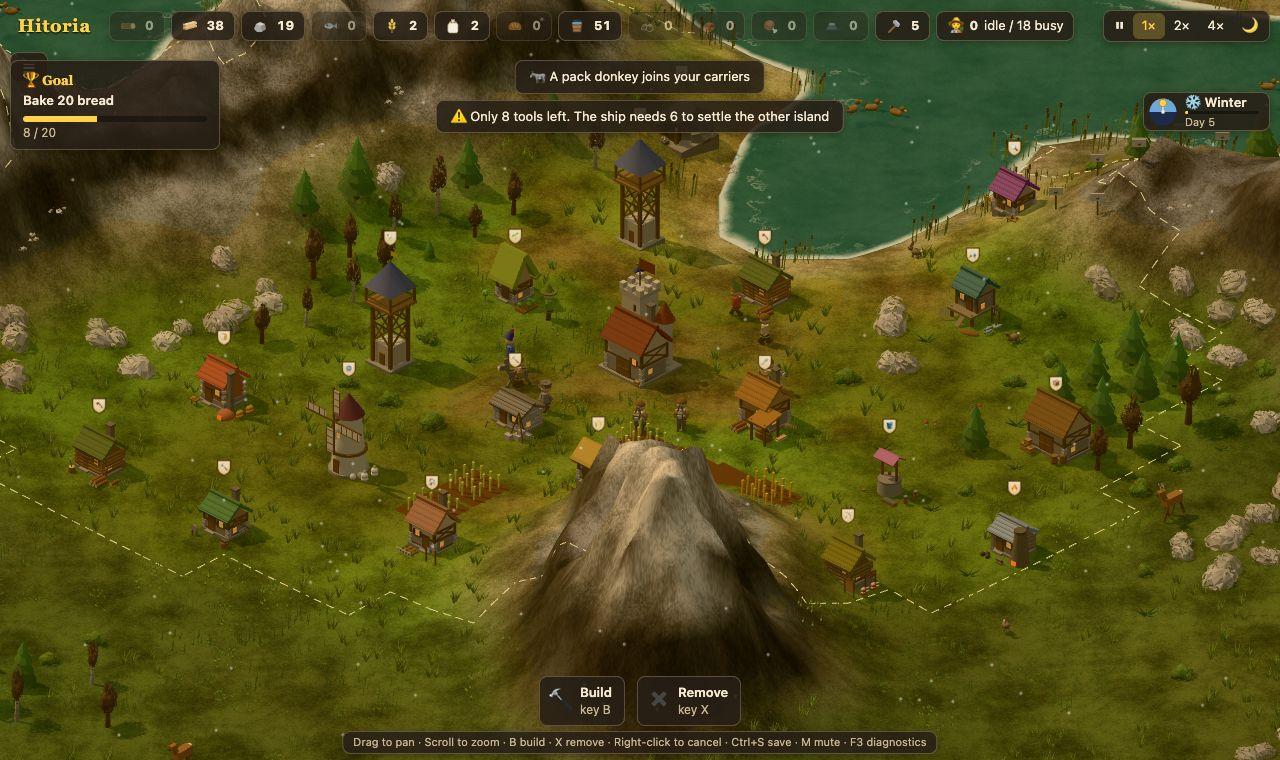
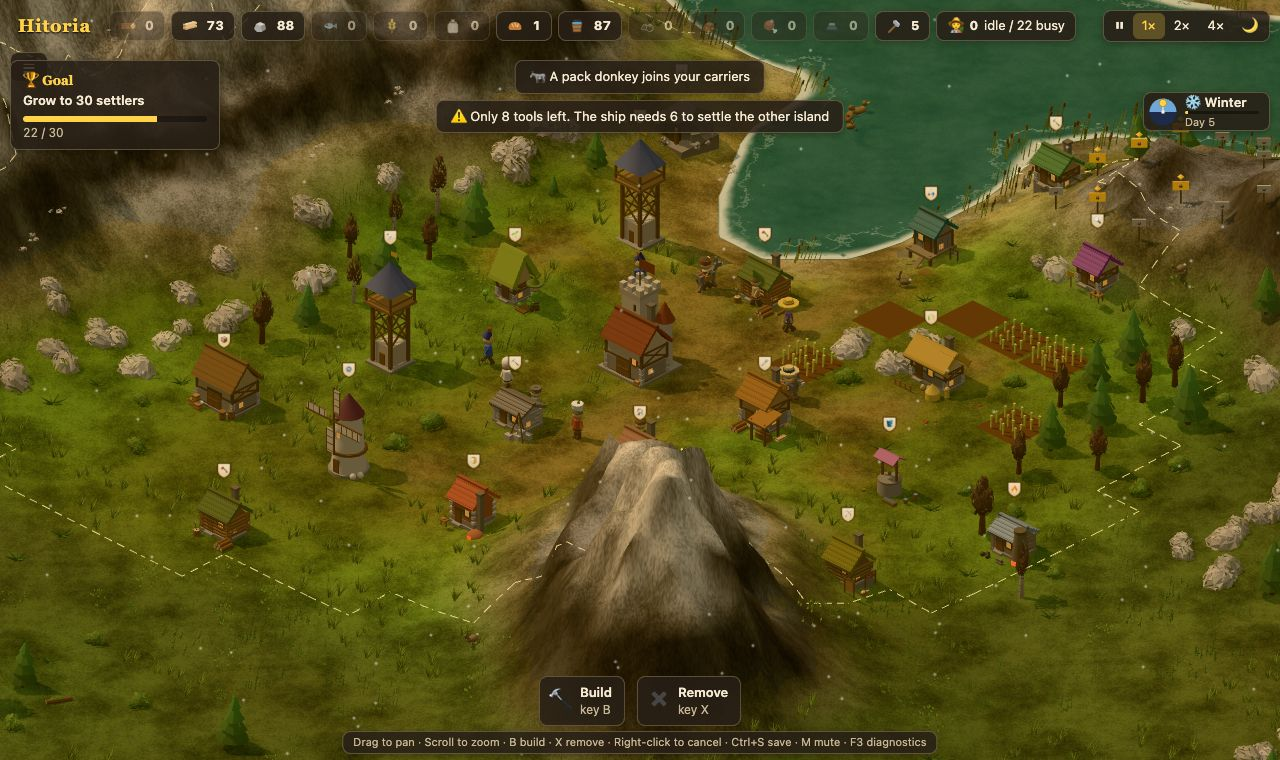
README village builds on Linux too: house and fisher come first

diff --git a/scripts/readme/village.ts b/scripts/readme/village.ts
@@ -6,10 +6,12 @@ import { clock } from '../../src/seasons/day';
 export const SEED = 214;
 
 // Placed in this order, each on the free spot nearest the HQ. The lookouts in the first round
-// widen the land, so the second round has room.
+// widen the land, so the second round has room. The fisher and the house come first too: the
+// village starts with only as many settlers as it has jobs, so it needs the house's new settlers
+// to carry goods and build.
 const ROUNDS: BType[][] = [
-  ['woodcutter', 'forester', 'sawmill', 'quarry', 'lookout', 'lookout'],
-  ['fisher', 'farm', 'well', 'mill', 'bakery', 'house', 'storehouse', 'mine', 'geologist', 'hunter', 'smelter', 'toolmaker', 'woodcutter'],
+  ['woodcutter', 'forester', 'sawmill', 'quarry', 'lookout', 'lookout', 'fisher', 'house'],
+  ['farm', 'well', 'mill', 'bakery', 'storehouse', 'mine', 'geologist', 'hunter', 'smelter', 'toolmaker', 'woodcutter'],
 ];
 const RADIUS = 9; // how far from the HQ to look for a spot
 const GAP = 2; // free tiles to keep between buildings, so each one is easy to see

diff --git a/changelog/entries/2026-11-02-readme-village-linux.md b/changelog/entries/2026-11-02-readme-village-linux.md
@@ -1,0 +1,9 @@
+---
+title: README village builds on Linux too
+date: '2026-11-02 18:40'
+kind: dev
+---
+The checks on GitHub failed because the README village left its house unfinished on Linux. The
+village started with only as many settlers as it had jobs, so no one was left to carry the
+house's materials. The house and the fisher now come in the first round, so new settlers arrive
+early. The README picture changes a little.
